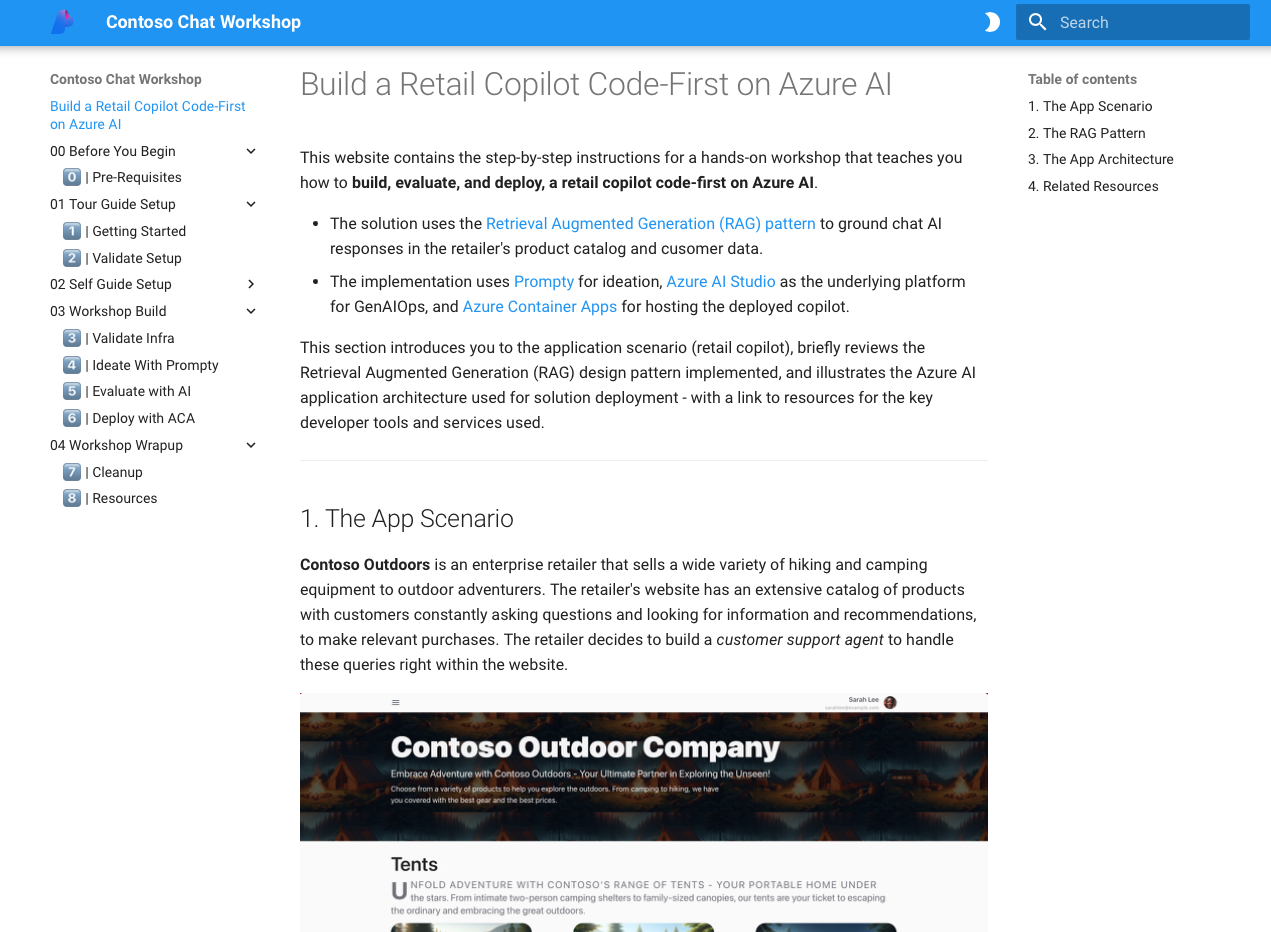
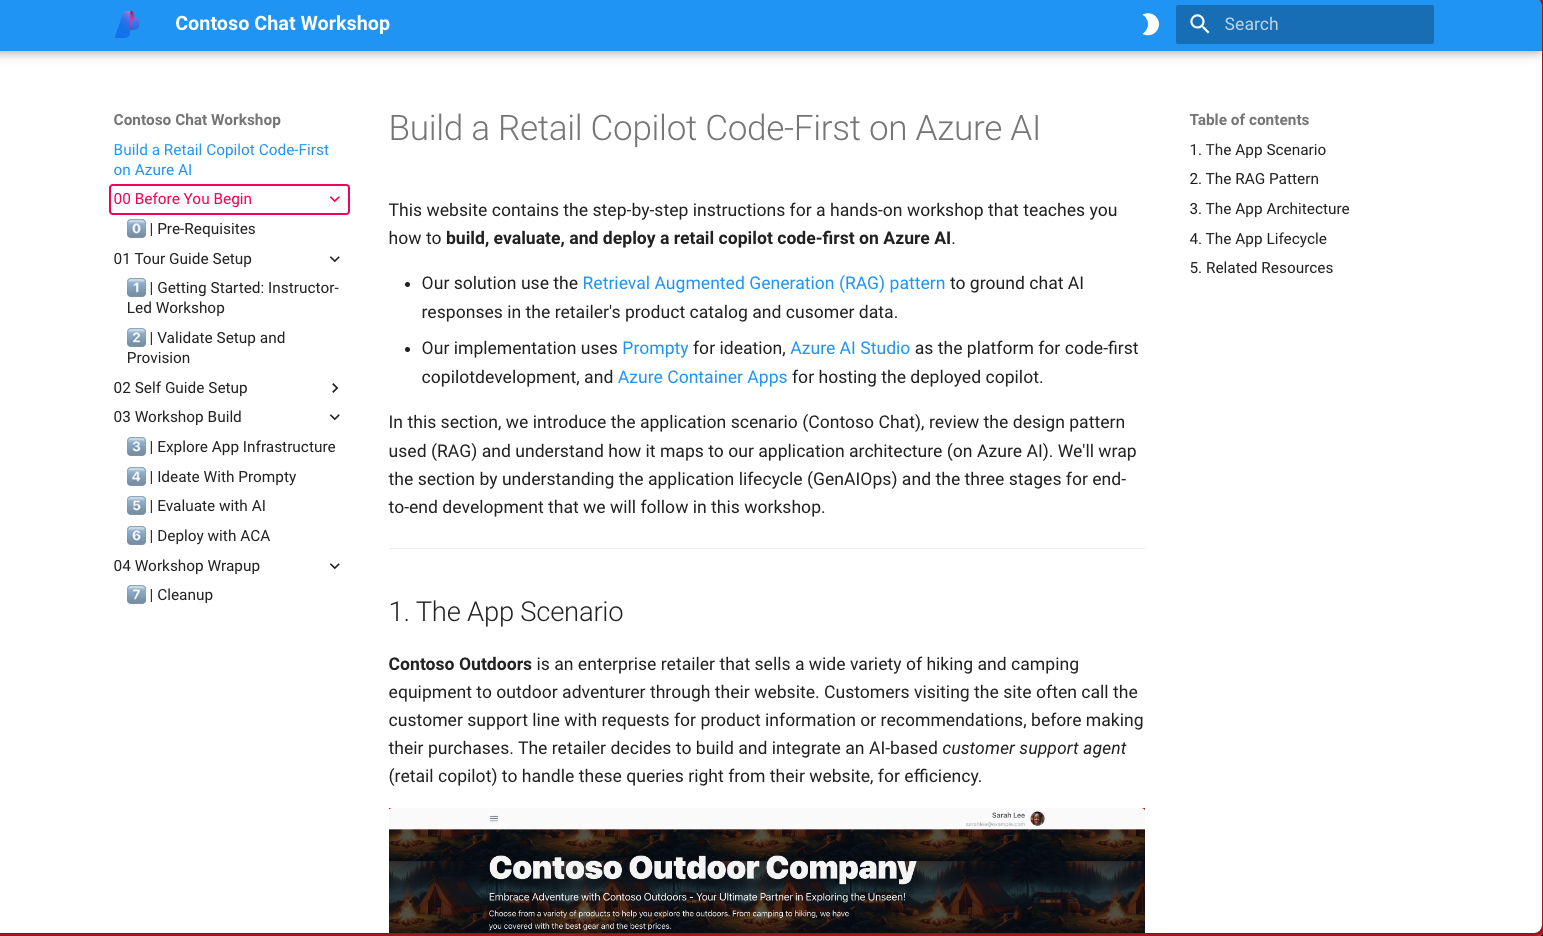
updated: lab getting started guidance

Changed region(s): [[0.0, 0.0, 1.0, 0.6534], [0.0, 0.5912, 1.0, 1.0]]

diff --git a/lab/README.md b/lab/README.md
@@ -1,20 +1,114 @@
 # Session folder
 
-This folder contains the public facing files for the lab `LAB NAME HERE`.
+This folder contains the public facing files for the lab `WRK550`.
 
-## Deployment/Getting Started/Steps
+## Build a Retail Copilot Code-First on Azure AI
 
-TODO: Add instructions below on how to follow/interect with your content as intended. An assets folder was created for your convienced if any additional media is needed.
+These instructions are for participants of the Workshop "Build a Retail Copilot Code-First on Azure AI" at Microsoft AI Tour 2024-2025.
+
+> [!NOTE]  
+>  The Microsoft AI Tour is Live - [Register to attend](https://aka.ms/aitour) at a city near you!
+
+The workshop is offered as an **instructor-led** session (WRK550) on the **Prototype to Production** track:
+
+> In this workshop, attendees will be introduced to the concept of GenAIOps, and learn to build a custom RAG-based retail copilot end-to-end, _code-first_ on the Azure AI platform.
+>
+> Using the provided sample, attendees will learn to prototype, evaluate and deploy a customer support chat AI for _Contoso Outdoors_ - a fictitious retailer who sells hiking and camping equipment online. The sample uses a Retrieval Augmented Generation (RAG) architecture to implement a retail copilot solution that responds to customer queries with answers grounded in the retailer's product catalog and customer purchase history. 
+
+- [**Register to attend**](https://aitour.microsoft.com/) at a tour stop near you.
+- [**View Lab resources**](https://aka.ms/aitour/wrk550) to continue your journey.
+
+If you're not a workshop participant at AI Tour, visit [https://github.com/Azure-Samples/contoso-chat](https://github.com/Azure-Samples/contoso-chat) and fork the sample to explore this on your own.
+ - You can find the workshop instructions in the [`docs/workshop`](https://github.com/Azure-Samples/contoso-chat/tree/main/docs/workshop) folder
+ - You can view a web preview of this at [https://aka.ms/aitour/contoso-chat/workshop/](https://aka.ms/aitour/contoso-chat/workshop)
+
+The instructions contain guidance for a _self-paced_ version of this workshop that you can run **using your own Azure subscription**.
+
+## Pre-Requisites
+
+https://github.com/Azure-Samples/contoso-chat/blob/main/docs/workshop/docs/00-Before-You-Begin/index.md
+
+
+> [!NOTE]  
+>  To participate in the instructor-led workshop you will need the following:
+
+1. **Your own laptop.**
+    * It need only be capable of running a browser and GitHub Codespaces, so almost any laptop will do.
+        * A recent version of the Edge, Chrome or Safari browser is recommended.
+1. **A GitHub Account.**
+    * If you don't have one, you can [sign up for a free account](https://github.com/signup) now.
+    * After this workshop is complete, you will have a fork of the "contoso-chat" repository in your GitHub account, which includes all the materials you will need to reproduce this workshop at home.
+1. (recommended) **Familiarity with Visual Studio Code.** 
+    * We will run all code in GitHub Codespaces, a virtualized Linux machine, instead of your local laptop. We won't be running anything on your laptop directly.
+    * VS Code Online will be our development environment in GitHub Codespaces.
+    * If you are familiar with running Codespaces within VS Code Desktop on your laptop, feel free to do so. 
+1. (preferred) **Familiarity with the `bash` shell.**
+    * We'll be using `bash` to run commands in the VS Code terminal, including Azure CLI commands.
+1. (preferred) **Familiarity with Python and Jupyter Notebooks**
+    * We'll be creating Python scripts and running them from the command line and from Notebooks.
+
+> [!NOTE]  
+>  To complete the workshop on your own at home you have two more requirements:
+
+1. **Active Azure Subscription** - with access to the relevant resources and AI model deployments required for this workshop.
+1. **Additional Provisioning Step ** - you will need to provision the infrastructure yourself with the provided guidance (run `azd up`).
+
+
+## Get Started
+
+To get started, you will need to:
+
+1. launch the Skillable Lab (in the Microsoft AI Tour instructor-led session) to get access to the relevant Azure subscription credentials. 
+1. fork the [contoso-chat](https://github.com/Azure-Samples/contoso-chat) sample (with branches) 
+1. switch to the `aitour-WRK550` branch & launch GitHub Codespaces
+1. then follow the workshop instructions as described below
+
+## View Instructions
+
+The workshop instructions are available in the repository under the [`docs/workshop`](https://github.com/Azure-Samples/contoso-chat/tree/main/docs/workshop/docs) folder as readable Markdown files. The content is authored in Markdown and is readable directly from source.
+
+However, for convenience, you can use one of these two options to get a _rendered preview_ as shown below, which may be easier to navigate.
+
+![Workshop](./../img/contoso-chat-workshop.png)
+
+### **Option 1: View Online Preview**
+
+Visit [https://aka.ms/aitour/contoso-chat/workshop](https://aka.ms/aitour/contoso-chat/workshop) in your browser, to see a hosted preview of this workshop guide. _We will keep this up to date for the duration of Microsoft AI Tour_.
+
+### **Option 2: View Local Preview**
+
+Once GitHub Codespaces is running on your fork of the repo, you can launch the preview locally using these 2 steps:
+ - changing to the workshop directory in a terminal: `cd docs/workshop`
+ - running the preview server: `mkdocs serve -a localhost:5000`
+
+You will see a dialog pop-up with options to view this in browser or in VS Code.
+
+
+## Continue The Workshop
+
+You can now continue working through the instructions for the workshop, starting with the [Tour Guide Setup](https://github.com/Azure-Samples/contoso-chat/blob/main/docs/workshop/docs/01-Tour-Guide-Setup/01-setup.md) section. The figure below provides a high-level view of the developer workflow you will follow in this workshop.
+
+![Developer Workflow](./../img/workshop-developer-flow.png)
+
 
 ## Discussions
-Use the Discussion page on this repository to ask any questions or continue the learning conversation!
+
+Contoso Chat is an open source project supported by Microsoft. See the [SUPPORT.md](../SUPPORT.md) file for details on how to raise issues or contribute. 
+
+> [!TIP]  
+> If you enjoyed this workshop, please [give the repository a ⭐](https://aka.ms/aitour/contoso-chat), watch it for updates, and share it with others so we can help make this better for everyone!
 
 ## Additional Resources and Continued Learning
-| Resources          | Links                            | Description |
-|-------------------|----------------------------------|-------------------|
-| Future Learning 1        | [Link 1](https://www.google.com/) | Learn more about X |
-| Future Learning 2     | [Link 2](https://www.google.com/) | Learn more about Y |
+
+| Resources          | Links                             | Description        |
+|:-------------------|:----------------------------------|:-------------------|
+| **Open-Source Samples** | [Contoso Chat](https://github.com/Azure-Samples/contoso-chat) · [Contoso Web](https://github.com/Azure-Samples/contoso-web) | Open-source repos with chat AI (backend) and web UI (frontend) samples used in the workshop. |
+| **Prompty** |  [Docs](https://prompty.ai/)  · [Extension](https://marketplace.visualstudio.com/items?itemName=ms-toolsai.prompty) · [Package](https://pypi.org/project/prompty/) | New asset class that brings flexibility, observability, portability and understandability to the prompt engineering and ideation phase of app development. _Currently in preview_. |
+| **Azure AI Templates** | [Curated Collection](https://aka.ms/azd-ai-templates) | Curated collection of Azure AI _azd templates_ that provide open-source samples for signature application scenarios using Azure AI and popular frameworks. Deployable with a single command!|
+| **Azure AI Studio** | [Docs](https://learn.microsoft.com/en-us/azure/ai-studio/) · [SDK](https://learn.microsoft.com/azure/ai-studio/how-to/develop/sdk-overview) · [Model Catalog](https://ai.azure.com/explore/models) | Unified platform for building end-to-end generative AI applications on Azure. Explore the model catalog, deploy and manage models and applications, adopt responsible AI practices. |
+| **Generative AI For Beginners** | [Open-Source Curriculum](https://aka.ms/genai-beginners) | Beginner-friendly open-source collection of lessons with hands-on projects to build up your knowledge of core concepts in prompt engineering, fine tuning, and more.|
+| | | |
 
 ## Source code
 
-The source code for this session is included in the CODE folder in the root directory.
+The source code for this session can be found in the [Contoso-Chat](https://aka.ms/aitour/contoso-chat) repo.

diff --git a/README.md b/README.md
@@ -8,28 +8,28 @@ _This repository is a companion to the WRK550 workshop session offered on the 20
 
 ## Session Description
 
-In this workshop, attendees will be introduced to the concept of GenAIOps, and learn to build a custom RAG-based retail copilot code-first on the Azure AI platform, end-to-end.
+In this workshop, attendees will be introduced to the concept of GenAIOps, and learn to build a custom RAG-based retail copilot end-to-end, _code-first_ on the Azure AI platform.
 
 Using the provided sample, attendees will learn to prototype, evaluate and deploy a customer support chat AI for _Contoso Outdoors_ - a fictitious retailer who sells hiking and camping equipment online. The sample uses a Retrieval Augmented Generation (RAG) architecture to implement a retail copilot solution that responds to customer queries with answers grounded in the retailer's product catalog and customer purchase history. 
 
 ## Application Architecture
 
-Attendees will also learn about the components of an Azure AI application architecture for implementing custom copilot solutions, as shown. User queries from a frontend client or UI are received through a hosted endpoint on Azure Container Apps. Queries are routed to various processing services in an orchestrated RAG workflow that ultimately generates the response returned to the user.
+Attendees will also learn the components of an Azure AI application architecture for implementing a custom copilot solution. User input ("question") to a frontend chat UI or client is sent to a hosted copilot endpoint on Azure Container Apps. The query is then routed to various processing services in an orchestrated RAG workflow that generates the relevant response - which is returned to the user through the frontend client.
 
 ![Azure AI App Architecture](./img/contoso-chat-architecture.png)
 
-The Azure AI Search service manages product indexes for the retailer's catalog, returning matching items for user queries based on similarity search and semantic ranking. The Azure CosmosDB service maintains a noSQL database with customer history data, returning product recommendations based on prior purchases. The Azure OpenAI service manages model deployments for embeddings, chat and evaluation - jey capabilities required to implement the query vectortization, response generation, and quality assessment steps of our end-to-end application lifecycle.
+The orchestration involves three processing services. The _Azure AI Search service_ manages product indexes for the retailer's catalog, returning matching items for user queries based on similarity search and semantic ranking. The _Azure CosmosDB service_ maintains a noSQL database with customer order history, returning product recommendations based on prior purchases. The _Azure OpenAI service_ manages model deployments for embeddings, chat and evaluation - key capabilities required to implement the query vectortization, response generation, and quality assessment steps of our end-to-end application lifecycle.
 
 ## Learning Outcomes
 
 Implement a RAG-based copilot end-to-end with Prompty and Azure AI Studio
 
-* Understand the RAG design pattern and Azure AI architecture
-* Provision and manage Azure infrastructure using AI azd templates
-* Ideate and iterate on application prototype using Prompty
-* Evaluate and trace application for quality and observability
-* Deploy copilot on Azure Container Apps for real-world usage
-* Learn how to customize the sample for your own app requirements
+* Understand the RAG design pattern and Azure AI app architecture
+* Provision and manage Azure infrastructure using _azd_-enabled AI templates
+* Ideate and iterate on the application prototype using Prompty assets and tooling
+* Evaluate and trace application execution for observability in cost and performance
+* Deploy the custom copilot to Azure Container Apps for real-world usage
+* Customize the sample with your data and extend it to meet your app scenariosx
 
 
 ## Technology Used
